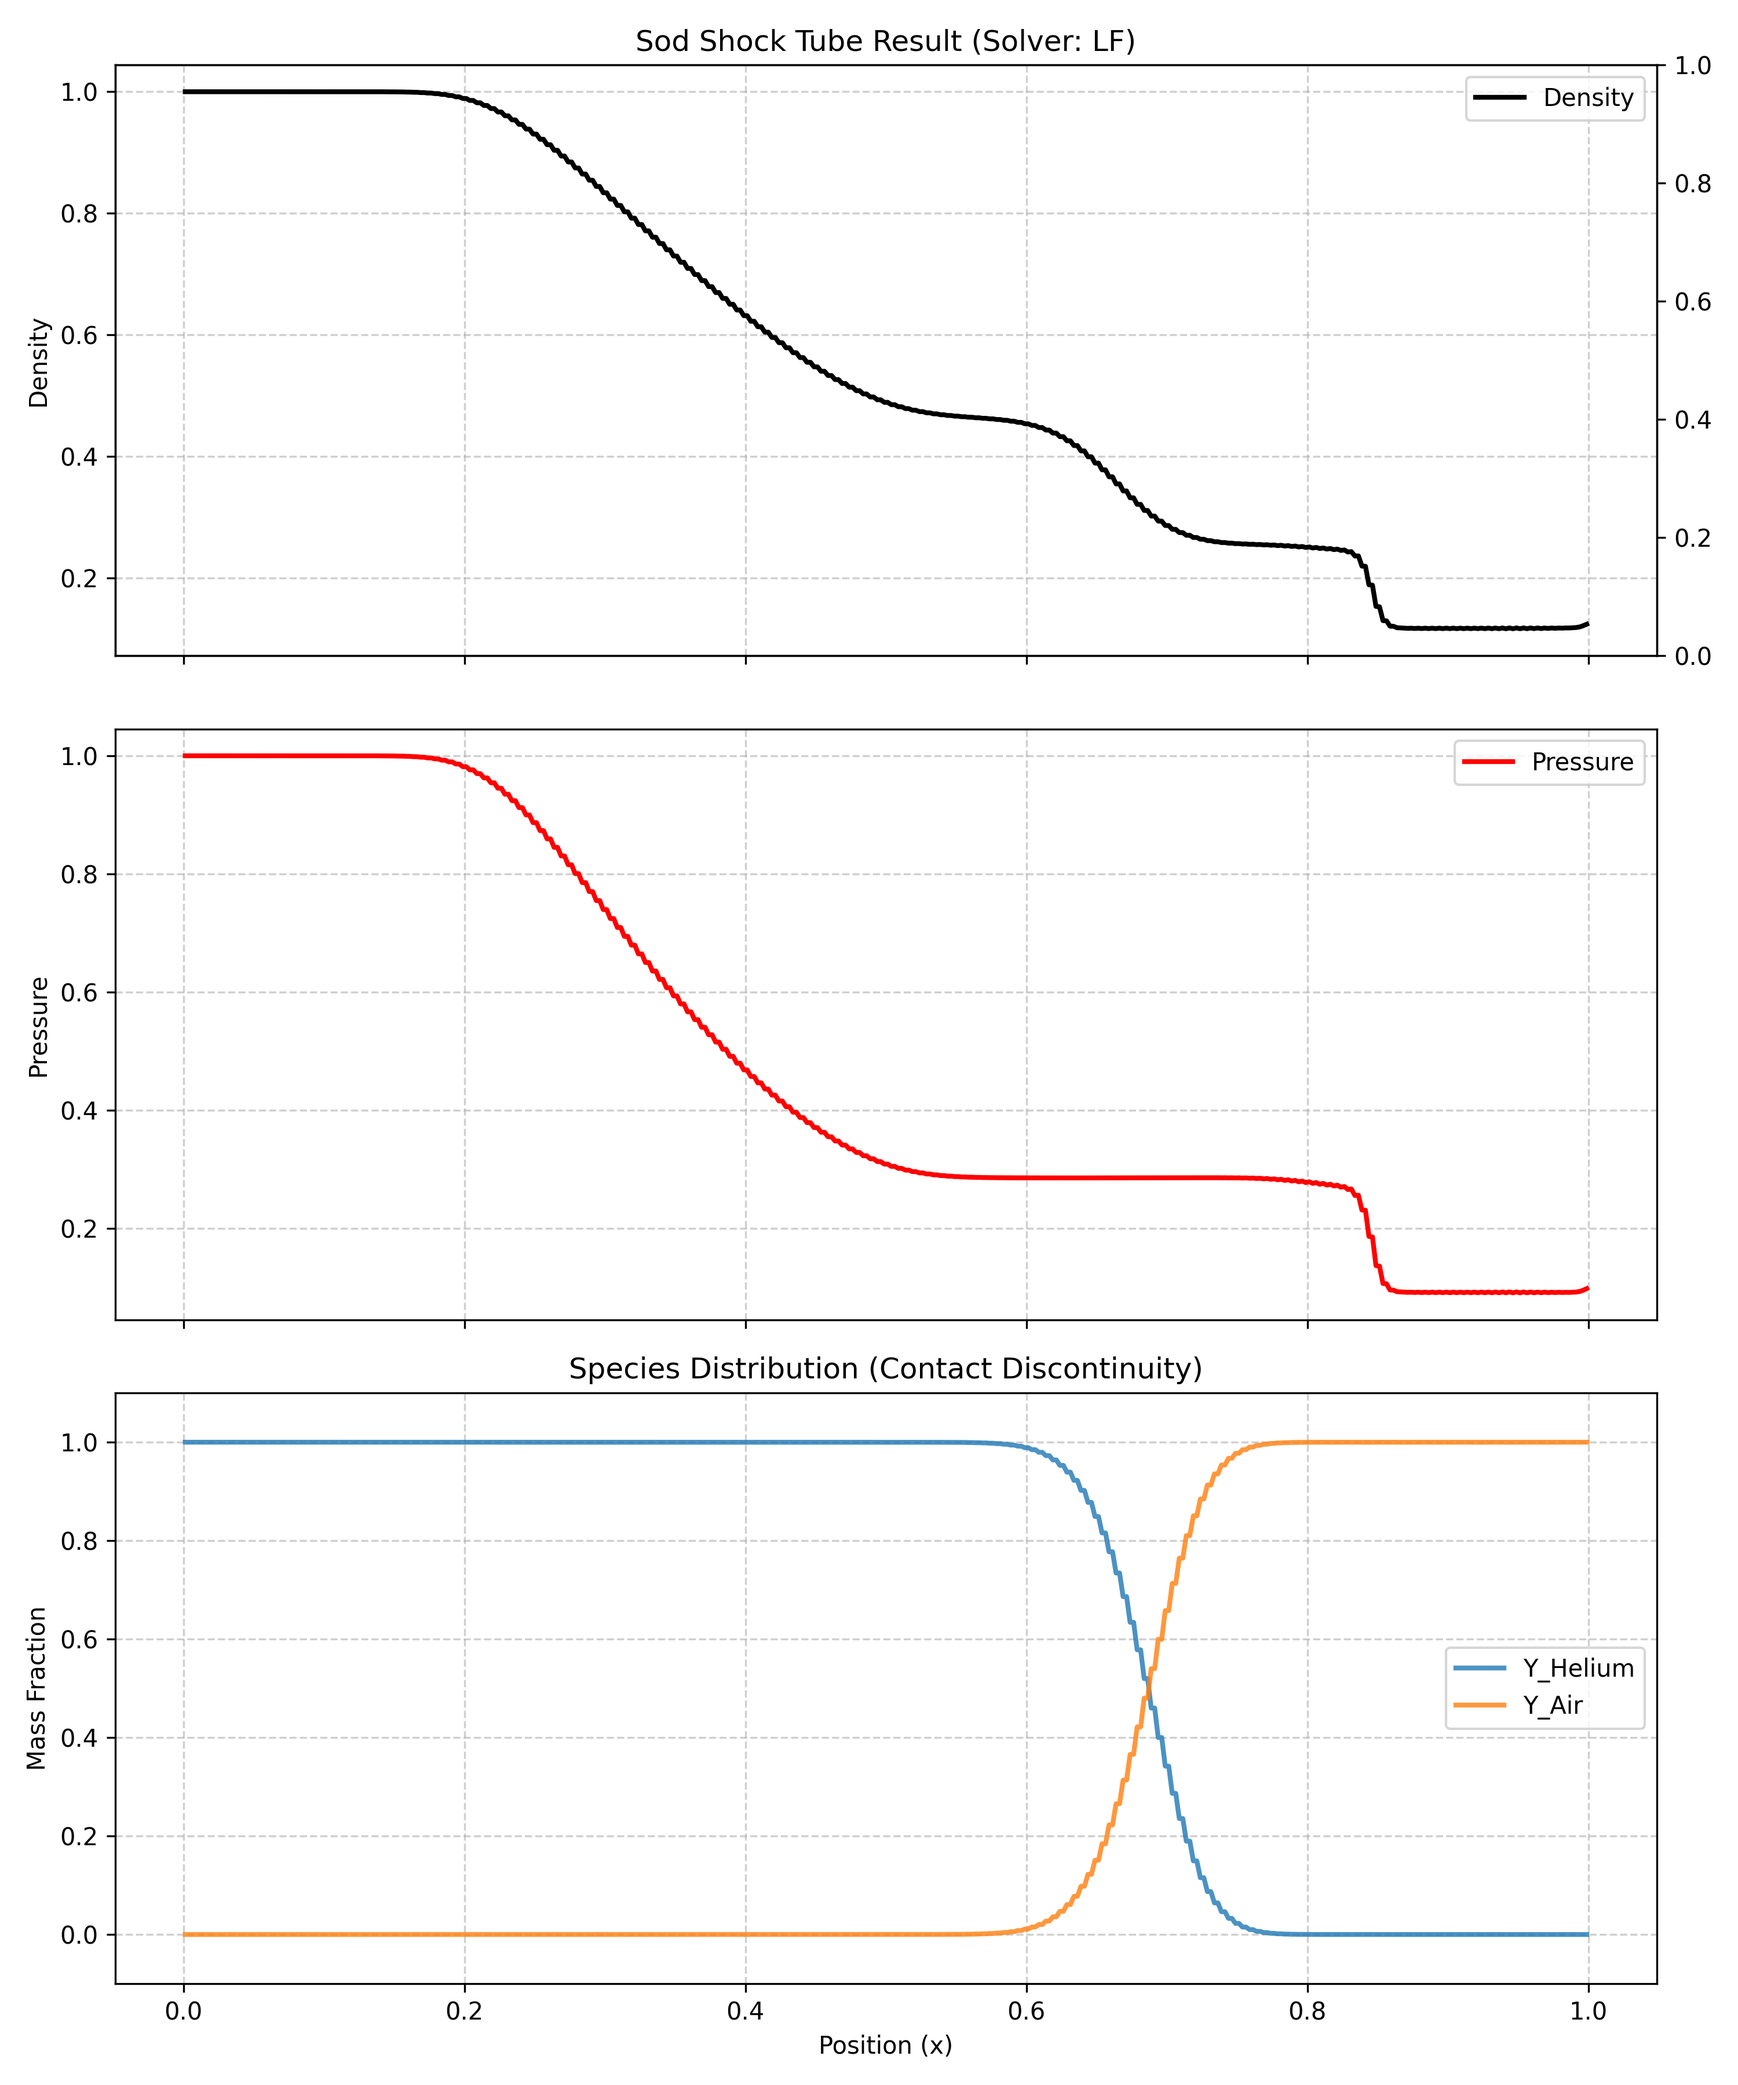
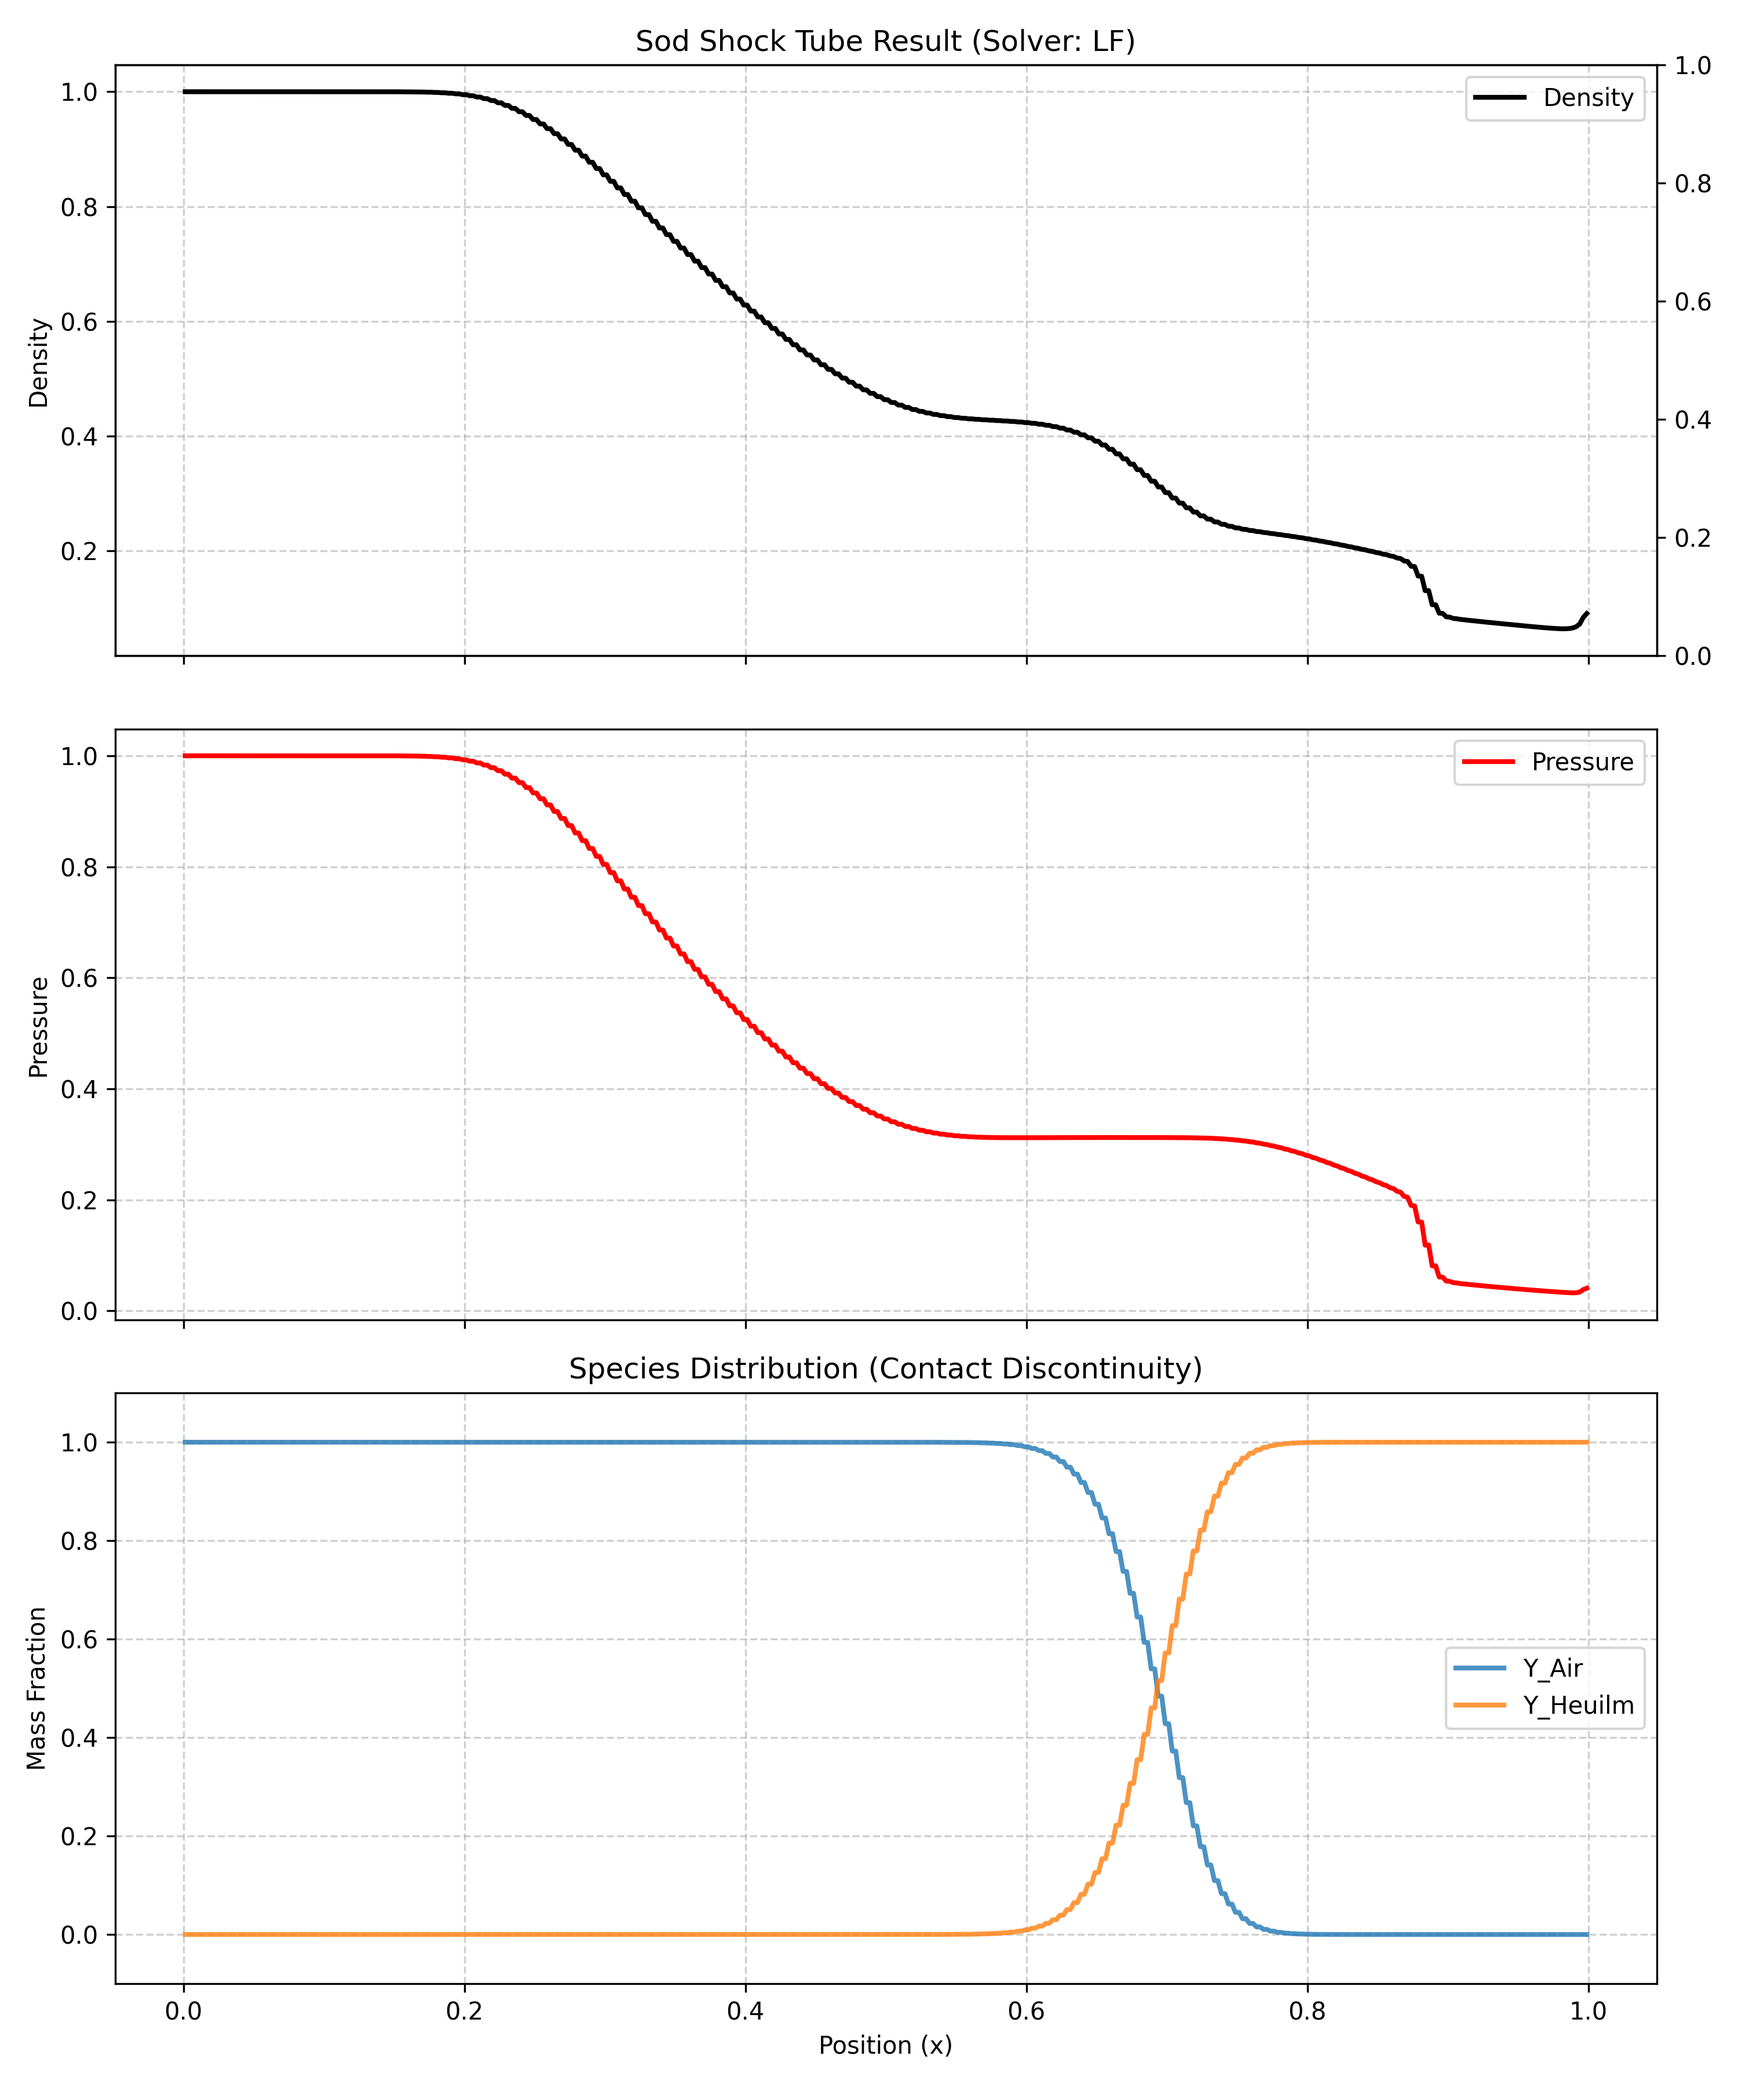
add VL solver

diff --git a/src/physics/solvers/SolverVL.h b/src/physics/solvers/SolverVL.h
@@ -1,0 +1,132 @@
+/**
+ * @file SolverVL.h
+ * @brief Vinokur-Von Leer Flux Vector Splitting (FVS) Solver.
+ * * A first-order upwind scheme.
+ * * Robust for capturing shocks because it respects the direction of information propagation
+ * * (Characteristic Waves) physically.
+ * *
+ * * Formulation:
+ * * F_{interface} = F^+(U_Left) + F^-(U_Right)
+ */
+
+#pragma once
+
+#include <string>
+#include <vector>
+#include <algorithm>
+
+#include "FluxFunctions.h"
+
+struct SolverVL
+{
+    static std::string name() { return "VL"; }
+
+    // VL is a 1st-order upwind scheme, so it only needs the immediate neighbors.
+    // Stencil: (i, i+1) -> Interface i+1/2.
+    static constexpr int NG = 1;
+
+    /**
+     * @brief Performs one time-step update using Vinokur-Von Leer splitting.
+     */
+    template <typename EosType>
+    static void solver(const FluidState &state_old,
+                       FluidState &state_new, const EosType &eos,
+                       const Grid &grid, double dt)
+    {
+        double dx = grid.dx;
+        double coeff = dt / dx;
+
+        int n_spec = state_old.GetNumSpecies();
+        int total_size = grid.GetTotalSize();
+
+        // ---------------------------------------------------------
+        // Memory Allocation
+        // ---------------------------------------------------------
+        // We store fluxes at cell interfaces.
+        // Mapping: interface_fluxes[i] corresponds to the face between cell (i-1) and (i).
+        std::vector<FluidVector3> interface_fluxes(total_size);
+        std::vector<double> interface_species_fluxes(n_spec * total_size);
+
+        // Temp buffers for species mass fractions
+        std::vector<double> Yi_L(n_spec);
+        std::vector<double> Yi_R(n_spec);
+
+        // ---------------------------------------------------------
+        // Step 1: Flux Calculation Loop (Upwind Splitting)
+        // Loop covers interfaces from the left of the physical domain to the right.
+        // ---------------------------------------------------------
+        for (int i = grid.Is() - 1; i < grid.Ie(); i++)
+        {
+            // Left state (U_i) and Right state (U_{i+1}) at interface i+1/2
+            FluidVector3 U_L = state_old.get(i);
+            FluidVector3 U_R = state_old.get(i + 1);
+
+            state_old.get_species_to_buffer(i, Yi_L.data());
+            state_old.get_species_to_buffer(i + 1, Yi_R.data());
+
+            // 1. Calculate Split Fluxes
+            // F+ corresponds to positive eigenvalues (waves moving Right) -> Depends on U_L
+            FluidVector3 F_plus = calc_vinokur_flux(U_L, Yi_L.data(), eos, +1);
+
+            // F- corresponds to negative eigenvalues (waves moving Left)  -> Depends on U_R
+            FluidVector3 F_minus = calc_vinokur_flux(U_R, Yi_R.data(), eos, -1);
+
+            // 2. Reconstruct Total Flux at Interface
+            // F_{i+1/2} = F+(U_L) + F-(U_R)
+            interface_fluxes[i + 1] = F_plus + F_minus;
+
+            // 3. Calculate Species Fluxes
+            // Physical intuition: Species are passive scalars transported by the mass flow.
+            // Mass moving right (F+.rho) carries species from Left (Y_L).
+            // Mass moving left  (F-.rho) carries species from Right (Y_R).
+            for (int k = 0; k < n_spec; ++k)
+            {
+                double spec_flux_val = F_plus.rho * Yi_L[k] + F_minus.rho * Yi_R[k];
+                interface_species_fluxes[k * total_size + (i + 1)] = spec_flux_val;
+            }
+        }
+
+        // Ensure output memory is ready
+        if (state_new.GetNumSpecies() != n_spec)
+            state_new.Resize(grid, n_spec);
+
+        // ---------------------------------------------------------
+        // Step 2: Update Loop (Finite Volume Formulation)
+        // ---------------------------------------------------------
+        for (int i = grid.Is(); i < grid.Ie(); i++)
+        {
+            // Retrieve fluxes at left (i-1/2) and right (i+1/2) faces
+            FluidVector3 F_L = interface_fluxes[i];
+            FluidVector3 F_R = interface_fluxes[i + 1];
+
+            // Update Conservative Variables
+            // U^{n+1} = U^n - (dt/dx) * (F_{i+1/2} - F_{i-1/2})
+            FluidVector3 U_new = state_old.get(i) - coeff * (F_R - F_L);
+
+            state_new.set(i, U_new);
+
+            // --- Species Update ---
+            double rho_new = std::max(U_new.rho, 1e-12); // Safety floor
+
+            for (int k = 0; k < n_spec; ++k)
+            {
+                int offset = k * total_size;
+
+                double F_spec_L = interface_species_fluxes[offset + i];
+                double F_spec_R = interface_species_fluxes[offset + i + 1];
+
+                // Update Partial Density (rho * Y)
+                double rho_Y_old = state_old.rho[i] * state_old.Y(k, i);
+                double rho_Y_new = rho_Y_old - coeff * (F_spec_R - F_spec_L);
+
+                // Recover Y
+                double Y_final = rho_Y_new / rho_new;
+
+                // Limiter / Clamping
+                // Necessary to prevent numerical noise from creating invalid mass fractions
+                Y_final = std::max(0.0, std::min(1.0, Y_final));
+                state_new.Y(k, i) = Y_final;
+            }
+        }
+    }
+};

diff --git a/src/physics/solvers/FluxFunctions.h b/src/physics/solvers/FluxFunctions.h
@@ -160,3 +160,123 @@ FluidVector3 calc_split_flux(const FluidVector3 &U, const double *Yi,
 
     return F_split;
 }
+
+// ------------------------------------------------------------------
+// 4. Vinokur-Von Leer Flux Vector Splitting
+// ------------------------------------------------------------------
+
+/**
+ * @brief Vinokur-Van Leer Flux Vector Splitting for General EOS
+ * * @param U      Conserved variables (rho, mom, eng)
+ * @param Yi     Species mass fractions array
+ * @param eos    Equation of State object
+ * @param sign   Direction indicator:
+ * > 0: Calculate F+ (Forward/Positive flux component)
+ * < 0: Calculate F- (Backward/Negative flux component)
+ */
+template <typename EosType>
+FluidVector3 calc_vinokur_flux(const FluidVector3 &U, const double *Yi,
+                               const EosType &eos, int sign)
+{
+    // 1. Pre-calculation & Protection
+    double rho = std::max(U.rho, 1e-12);
+    double u = U.mom / rho;
+
+    // Get thermodynamics from EOS
+    // Note: ensure your eos.get_pressure can handle small rho
+    double p = eos.get_pressure(rho, U.mom, U.eng, Yi);
+    double c = eos.get_sound_speed(rho, p, Yi);
+
+    // Calculate Equivalent Gamma (Vinokur's Gamma)
+    // Protection for vacuum/zero pressure is crucial here
+    double gamma_eff = (p > 1e-12) ? (rho * c * c / p) : 1.4;
+
+    // Calculate Mach Number
+    double M = u / c;
+    // 2. Supersonic Branching (Optimization & Validity)
+    // If we want F+ (sign>0) and flow is supersonic backward (M <= -1), F+ is 0.
+    // If we want F- (sign<0) and flow is supersonic forward (M >= 1), F- is 0.
+
+    if (sign > 0)
+    { // Calculating F+
+        if (M >= 1.0)
+        {
+            // Full Flux F
+            double E_total = U.eng;
+            return FluidVector3{
+                U.mom,            // rho * u
+                U.mom * u + p,    // rho * u^2 + p
+                (E_total + p) * u // (E + p) * u
+            };
+        }
+        if (M <= -1.0)
+        {
+            return FluidVector3{0.0, 0.0, 0.0};
+        }
+    }
+    else
+    { // Calculating F- (sign < 0)
+        if (M >= 1.0)
+        {
+            return FluidVector3{0.0, 0.0, 0.0};
+        }
+        if (M <= -1.0)
+        {
+            // Full Flux F
+            double E_total = U.eng;
+            return FluidVector3{
+                U.mom,            // rho * u
+                U.mom * u + p,    // rho * u^2 + p
+                (E_total + p) * u // (E + p) * u
+            };
+        }
+    }
+
+    // 3. Subsonic Branching (|M| < 1) - The Vinokur Polynomials
+
+    // Common factor term: (M +/- 1)
+    // If sign > 0 (F+), we use (M + 1)
+    // If sign < 0 (F-), we use (M - 1)
+    double factor = (sign > 0) ? (M + 1.0) : (M - 1.0);
+
+    // Mass Flux (The split mass term)
+    // f_mass = +/- rho * c * (M +/- 1)^2 / 4
+    double term_sign = (sign > 0) ? 1.0 : -1.0;
+    double f_mass = term_sign * 0.25 * rho * c * factor * factor;
+
+    // 4. Construct Split Flux Vector
+    FluidVector3 F_split;
+
+    // --- Mass Equation ---
+    F_split.rho = f_mass;
+
+    // --- Momentum Equation ---
+    // Vinokur Momentum Term using Equivalent Gamma
+    // D +/- = [ (gamma_eff - 1)*u +/- 2*c ] / gamma_eff
+    double term_2c = (sign > 0) ? (2.0 * c) : (-2.0 * c);
+    double D_split = ((gamma_eff - 1.0) * u + term_2c) / gamma_eff;
+
+    F_split.mom = f_mass * D_split;
+
+    // --- Energy Equation (Crucial Vinokur Correction) ---
+
+    // Part A: Ideal Gas Energy Term (using gamma_eff)
+    // H_ideal = D_split^2 * gamma_eff^2 / (2 * (gamma_eff^2 - 1))
+    // Simplifies to the form below:
+    double numerator = ((gamma_eff - 1.0) * u + term_2c);
+    double E_ideal_term = (numerator * numerator) / (2.0 * (gamma_eff * gamma_eff - 1.0));
+
+    // Part B: The Correction Term for General EOS
+    // We need real specific enthalpy h = e + p/rho
+    // Note: U.eng is rho * E_total -> specific internal energy e = (U.eng/rho) - 0.5*u*u
+    double e_internal = (U.eng / rho) - 0.5 * u * u;
+    double h_real = e_internal + p / rho;
+
+    // Ideal enthalpy based on sound speed
+    double h_ideal = (c * c) / (gamma_eff - 1.0);
+
+    // Combine: F_energy = f_mass * ( E_ideal_term + (h_real - h_ideal) )
+    F_split.eng = f_mass * (E_ideal_term + (h_real - h_ideal));
+
+    return F_split;
+}

diff --git a/wave_plot.py b/wave_plot.py
@@ -4,7 +4,7 @@ import glob
 import sys
 
 # --- 1. 寻找文件 ---
-files = sorted(glob.glob("output/plt_SW_*.csv"))
+files = sorted(glob.glob("output/plt_VL_*.csv"))
 if not files:
     print("Error: No csv files found!")
     sys.exit(1)
@@ -25,7 +25,7 @@ fig, (ax1, ax2, ax3) = plt.subplots(3, 1, figsize=(10, 12), sharex=True)
 # === Subplot 1: 密度 ===
 ax1.plot(df['x'], df['rho'], 'k-', label='Density', linewidth=2)
 ax1.set_ylabel("Density")
-ax1.set_title(f"Sod Shock Tube Result (Solver: SW)")
+ax1.set_title(f"Sod Shock Tube Result (Solver: VL)")
 ax1.grid(True, linestyle='--', alpha=0.6)
 ax1.legend(loc='upper right')
 
@@ -53,6 +53,6 @@ ax3.set_title("Species Distribution (Contact Discontinuity)")
 
 # --- 4. 保存 ---
 plt.tight_layout()
-plt.savefig("sod_SW_rare_1.png", dpi=300)
-print("Saved: sod_SW_rare_1.png")
+plt.savefig("sod_VL.png", dpi=300)
+print("Saved: sod_VL.png")
 plt.show()

diff --git a/src/physics/solvers/SolverFactory.h b/src/physics/solvers/SolverFactory.h
@@ -27,6 +27,7 @@
 #include "SolverSW.h" // Steger-Warming
 #include "SolverLF.h" // Lax-Friedrichs
 #include "SolverLW.h" // Lax-Wendroff
+#include "SolverVL.h" //Vinokur-Von Leer
 
 // ------------------------------------------------------------------
 //  Template Launcher
@@ -100,6 +101,11 @@ void DispatchSolver(const std::string &solver_name,
     {
         // Lax-Wendroff (Central, 2nd Order, Dispersive)
         StartSimulation<SolverLW>(problem, cfg, specs);
+    }
+    else if (solver_name == "VL")
+    {
+        // Vonokur-Von Leer Flux Vector Splitting (Upwind, 1st Order)
+        StartSimulation<SolverVL>(problem, cfg, specs);
     }
     // Future expansion:
     // else if (solver_name == "Roe") { ... }
